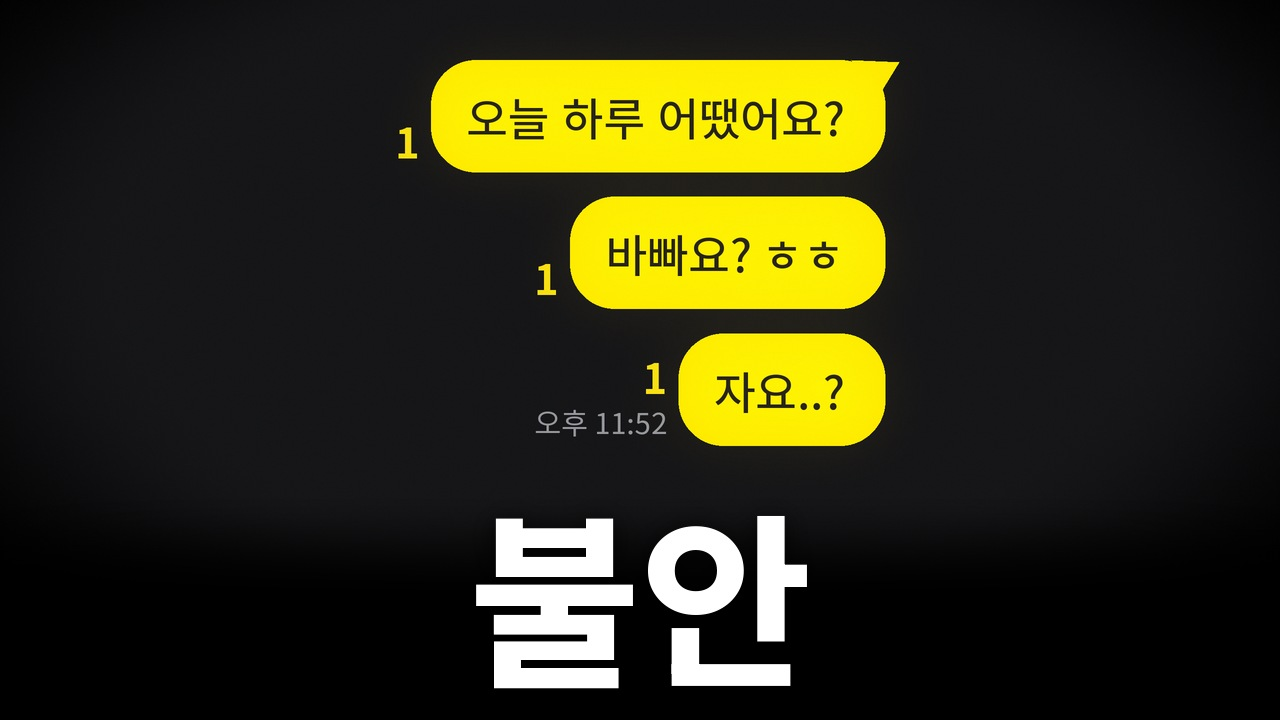
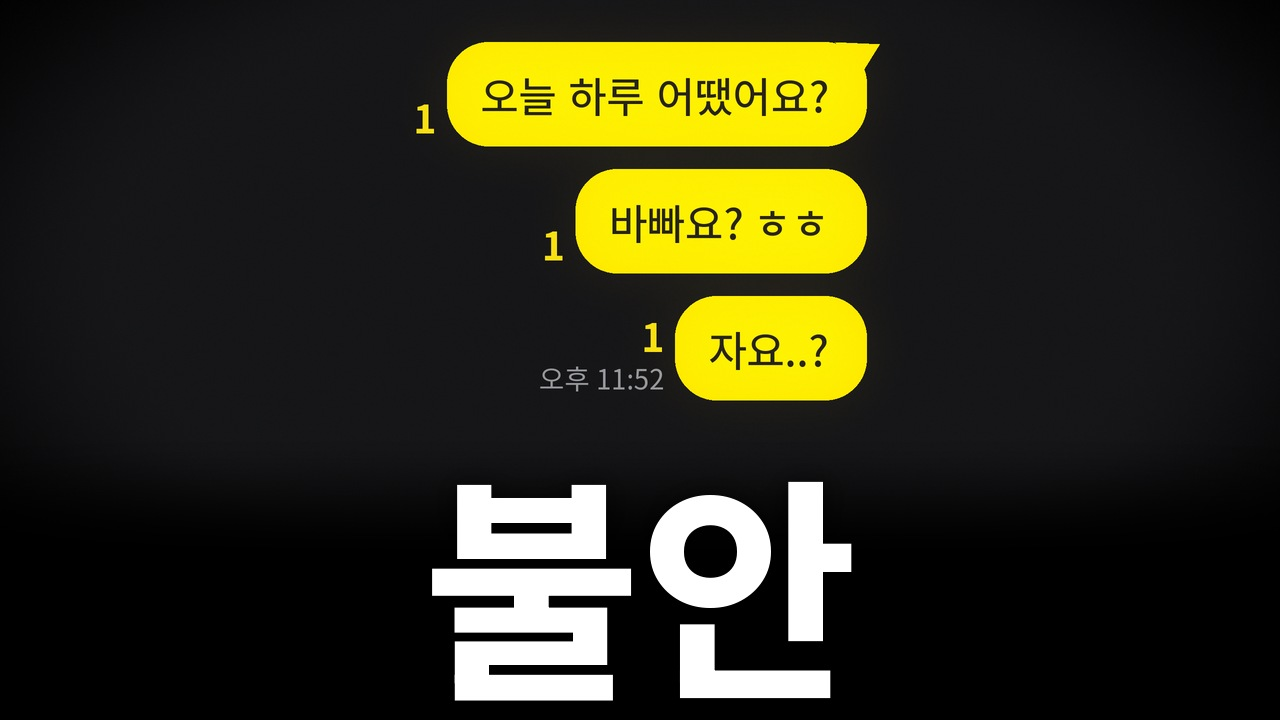
F의연애: 썸네일 주제 단어를 더 크게(186px → 236px)
- thumb.py 주제 단어 크기·바닥선 변경, thumb_chat.py 말풍선 높이 104px·위치·검게 사라지는 구간 조정
- 01편 썸네일.jpg 다시 만듦, README·진행기록 갱신

Claude-Session: https://claude.ai/code/session_01W2LvTK1LxBBrCR9gG9ohCC

Changed region(s): [[0.3125, 0.0306, 0.7188, 0.6417], [0.3125, 0.6722, 0.6875, 0.9778]]

diff --git a/F의연애/썸네일/thumb_chat.py b/F의연애/썸네일/thumb_chat.py
@@ -90,7 +90,7 @@ def make_light(msgs, time, h=100):
     return finish(img)
 
 
-def make_dark(msgs, time, h=112):
+def make_dark(msgs, time, h=104):
     """Dark-theme chat: black screen, only my yellow bubbles, a soft glow like a lit screen in a dark room."""
     CW, CH = W * S, H * S
     hh = h * S
@@ -98,7 +98,7 @@ def make_dark(msgs, time, h=112):
     bw = CW - bx[0]
     right = (CW + bw) / 2
     img = Image.new("RGB", (CW, CH), THEMES["dark"]["bg"])
-    draw_chat(ImageDraw.Draw(img), msgs, right, 60 * S, hh, "dark", time)
+    draw_chat(ImageDraw.Draw(img), msgs, right, 42 * S, hh, "dark", time)
     a = np.asarray(img, np.float32)
     lum = a.mean(2)
     bright = Image.fromarray(np.clip((lum - 120) * 2, 0, 255).astype(np.uint8)).filter(ImageFilter.GaussianBlur(26 * S))
@@ -124,6 +124,6 @@ if __name__ == "__main__":
     msgs = opt("--msgs", "오늘 하루 어땠어요?|바빠요? ㅎㅎ|자요..?").split("|")
     time = opt("--time", "오후 11:52")
     img = (make_light if opt("--theme", "dark") == "light" else make_dark)(msgs, time)   # 기본 다크(2026-10-22 사용자 결정)
-    img = bottom_fade(img, 488, 600)
+    img = bottom_fade(img, 430, 560)
     put_word(img, opt("--word", "불안"), opt("--color", "white")).save(a[0], quality=93)
     print(a[0])

diff --git a/F의연애/썸네일/thumb.py b/F의연애/썸네일/thumb.py
@@ -16,7 +16,7 @@ W, H = 1280, 720
 FONT_DIR = os.environ.get("FONT_DIR", os.path.join(os.path.dirname(os.path.abspath(__file__)), "fonts"))
 COLORS = {"white": (255, 255, 255), "red": (230, 40, 48)}   # 맑은 빨강(채도 높고 분홍기 없음)
 YEL = (242, 201, 76)                                       # #F2C94C, 채널 강조색
-WORD_SIZE, WORD_BASE, WORD_WEIGHT = 186, 672, 800          # 주제 단어 크기, 글자 바닥선(y), 굵기
+WORD_SIZE, WORD_BASE, WORD_WEIGHT = 236, 680, 800          # 주제 단어 크기, 글자 바닥선(y), 굵기 (2026-10-22: 186 → 236, 사용자 요청)
 
 
 def font(weight, size):

diff --git a/F의연애/썸네일/README.md b/F의연애/썸네일/README.md
@@ -10,6 +10,7 @@
 5. 사용자가 제목 글씨를 흰색으로 정했다(2026-10-22).
 6. 사용자 피드백: 카톡 글씨체가 AI 같다. 진짜 갤럭시·애플 글씨체로. → 두 기본 글꼴은 기기 전용이라 쓸 수 없어서, 사용자가 보낸 갤럭시 카톡 화면을 기준으로 말풍선 모양·색·비율과 '1'·시간 위치를 재서 다시 그렸다. 글꼴은 무료 글꼴 9종을 같은 높이로 맞춰 비교해 가장 가까운 Noto Sans KR 450을 골랐다(너비 98.9%, 획 굵기 102.8%). 원본 캡처는 친구 이름과 사진이 있어 저장소에 올리지 않았다.
 7. 사용자가 다크 테마(검은 화면 + 노란 말풍선)를 골랐다(2026-10-22). thumb_chat.py의 기본값도 다크다.
+8. 사용자 요청: 주제 단어를 더 크게. 186px → 236px로 키우고, 말풍선을 조금 줄여(높이 112 → 104px) 위로 올렸다(2026-10-22).
 
 ---
 
@@ -17,12 +18,12 @@
 
 1. 크기: 1280×720, JPG. 「INFJ입니다.」 지침 7-1과 같은 크기입니다.
 2. 배경: 순검정
-3. 물체: 가운데 위쪽에 둡니다. 작게 봐도 알아보도록 핵심만 크게 씁니다(01편은 말풍선 높이 112px). 아래쪽은 y=488~600에서 검게 사라져 글자 뒤를 비웁니다.
+3. 물체: 가운데 위쪽에 둡니다. 작게 봐도 알아보도록 핵심만 크게 씁니다(01편은 말풍선 높이 104px, 위 끝 y=42). 아래쪽은 y=430~560에서 검게 사라져 글자 뒤를 비웁니다.
    - 화면처럼 보이게 하는 처리(thumb_chat.py 다크): 말풍선 빛 번짐, 가장자리를 검게 감싸는 조명, 아주 약한 노이즈
    - 물체는 기울이지 않고 똑바로 세운다(2026-10-22 사용자 지시: 원근을 넣었더니 삐뚤어 보인다고 함)
    - 화면 끝에서 잘리는 글씨를 두지 않는다. 그래서 채팅 위쪽의 상대 이름 줄은 뺐다(채널 작업 규칙 5번)
 4. 주제 단어
-   - 글꼴: Noto Sans KR(본고딕 계열, OFL) 굵기 800(ExtraBold), 186px, 가운데 정렬, 글자 바닥선 y=672
+   - 글꼴: Noto Sans KR(본고딕 계열, OFL) 굵기 800(ExtraBold), 236px, 가운데 정렬, 글자 바닥선 y=680. 글자 높이는 약 218px(화면 높이의 30%)입니다(2026-10-22 사용자 요청으로 186px에서 키움).
    - 글자 아래에 은은한 검은 그림자(아래로 6px, 흐림 14px)를 깔아 물체와 떼어 줍니다.
    - 색: 흰색(255, 255, 255)이 기본입니다(2026-10-22 사용자 결정, 01편도 흰색). 빨간색(230, 40, 48)도 고를 수 있습니다.
    - 한 단어(2~3글자)를 권합니다. 길어지면 크기를 줄여야 합니다.

diff --git a/F의연애/진행기록.md b/F의연애/진행기록.md
@@ -4,6 +4,13 @@
 
 ---
 
+## 2026-10-22 (13) 썸네일 주제 단어 키움
+
+1. 사용자 요청: "불안" 글씨를 좀 더 키워도 좋겠다.
+2. 반영: 186px → 236px(글자 높이 171 → 218px, 약 27% 키움). 말풍선을 조금 줄이고(높이 112 → 104px) 위로 올려 간격 83px를 지켰다. 틀 기본값(thumb.py)도 바꿨다.
+
+---
+
 ## 2026-10-22 (12) 01편 썸네일 확정: 다크 테마
 
 1. 사용자 결정: 2번(다크 테마: 검은 화면 + 노란 말풍선, 흰 글씨 "불안")
